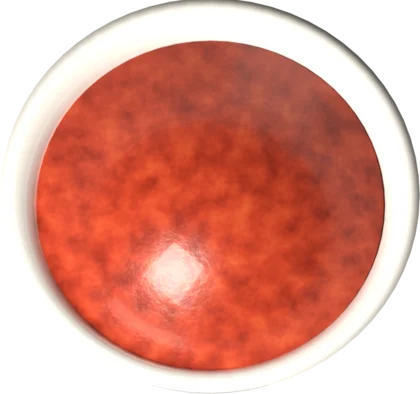
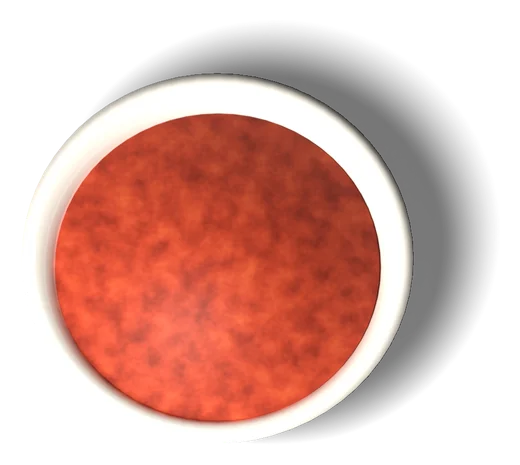
Hero: closed box stack behind today's ticket, copy at the pizza's optical centre
- Two closed Pizza Max boxes (new closed-stack scene in blender/box_scene.py,
  printed lid facing up) sit behind today's ticket, which lies across their
  front edge; shown on the three-column layout only.
- The copy block sits a little above the pizza's centre so the air above the
  headline and under the button match; the lead stays inside its column and
  no longer runs onto the crust at 1260-1330px.
- Ingredient props re-rendered with real contact shadows (pizza_scene.py --props,
  finished by box_finish.py); the kit's counter uses them without a CSS shadow.
- DESIGN.md records the hero layout and the box renders.

diff --git a/css/style.css b/css/style.css
@@ -235,11 +235,11 @@ a:hover .i-arrow, button:hover .i-arrow { transform: translateX(3px); }
   position: relative; width: min(1320px, 100% - 64px); margin-inline: auto; display: grid;
   grid-template-columns: minmax(0, .78fr) minmax(0, 1.25fr) minmax(340px, .75fr); grid-template-areas: "copy pizza ticket"; align-items: center;
 }
-.hero-copy { grid-area: copy; position: relative; z-index: 3; align-self: start; padding-top: 44px; }
+.hero-copy { grid-area: copy; position: relative; z-index: 3; align-self: center; margin-bottom: clamp(72px, 7.5vw, 120px); }   /* a little above centre: the headline clears the pizza's widest part, the air above and below reads even */
 /* the headline runs on over the board's empty corner; it lets drags through to the pizza */
 .hero-title { width: 122%; margin: 0; font-weight: 800; font-size: clamp(2.8rem, 5.1vw, 4.75rem); line-height: .98; letter-spacing: -.035em; pointer-events: none; }
 .hero-title em { font-style: normal; color: var(--green-dk); }
-.hero-lead { margin: 22px 0 0; font-size: var(--fs-lg); color: var(--text); max-width: 30ch; }
+.hero-lead { margin: 22px 0 0; font-size: var(--fs-lg); color: var(--text); max-width: min(30ch, 100% - 6rem); text-wrap: pretty; }   /* the headline leans into the board, the lead stays clear of it */
 .hero-cta { display: flex; flex-wrap: wrap; gap: 12px; margin-top: 26px; }
 .hero-visual { grid-area: pizza; position: relative; margin-left: -56px; }   /* the board slides under the end of the headline */
 /* today's oven, printed on the shop's thermal order ticket (the brand kit's ticket): torn top and bottom */
@@ -289,6 +289,9 @@ a:hover .i-arrow, button:hover .i-arrow { transform: translateX(3px); }
 }
 @media (hover: hover) { .hand-note:hover { transform: rotate(3deg) scale(1.05); } }
 .hand-note svg { width: 70px; margin-top: 16px; scale: -1 1; rotate: -28deg; }
+/* two closed boxes wait on the counter behind today's ticket, which lies across their front edge: the shop's
+   printed lid in the shop's own render. Decoration, never a click; it leaves with the three-column layout */
+.today-boxes { position: absolute; z-index: -2; left: 6%; bottom: calc(100% - 50px); width: clamp(250px, 24vw, 356px); height: auto; rotate: .7deg; pointer-events: none; user-select: none; }
 
 /* ---------- deals ---------- */
 .aktion { padding: 72px 0 80px; background: var(--surface); border-top: 1px solid var(--line); }
@@ -706,10 +709,11 @@ a:hover .i-arrow, button:hover .i-arrow { transform: translateX(3px); }
 }
 /* under 1260px the headline runs across the top, then the pizza with today's ticket lying beside it */
 @media (max-width: 1259px) {
+  .today-boxes { display: none; }
   .hero-stage { width: min(1180px, 100% - 40px); grid-template-columns: minmax(0, 1.2fr) minmax(0, .8fr); grid-template-areas: "copy copy" "pizza ticket"; row-gap: 4px; }
-  .hero-copy { display: grid; grid-template-columns: minmax(0, 1.3fr) minmax(0, .7fr); grid-template-areas: "title lead" "title cta"; align-items: end; column-gap: 40px; padding-top: 0; }
+  .hero-copy { display: grid; grid-template-columns: minmax(0, 1.3fr) minmax(0, .7fr); grid-template-areas: "title lead" "title cta"; align-items: end; column-gap: 40px; margin-bottom: 0; }
   .hero-title { grid-area: title; width: auto; }
-  .hero-lead { grid-area: lead; margin: 0; }
+  .hero-lead { grid-area: lead; margin: 0; max-width: 30ch; }
   .hero-cta { grid-area: cta; margin: 16px 0 4px; }
   .hero-visual { justify-self: center; width: 100%; max-width: 580px; margin-left: 0; }
   .today { align-self: center; margin: 0 0 0 -28px; }

diff --git a/brand/index.html b/brand/index.html
@@ -65,8 +65,8 @@
         <p>Laid out on the counter: logo, print, packaging, signs, team wear and screens. Print materials open at true size, screens at native pixels.</p>
         <p class="slip-how">Click any object for its size, paper and files.</p>
       </div>
-      <img class="prop prop-basil" src="../assets/props/basil.webp" alt="" width="254" height="420">
-      <img class="prop prop-tomato" src="../assets/props/tomato.webp" alt="" width="420" height="415">
+      <img class="prop prop-basil" src="../assets/props/basil.webp" alt="" width="348" height="520">
+      <img class="prop prop-tomato" src="../assets/props/tomato.webp" alt="" width="520" height="477">
       <img class="prop prop-olives" src="../assets/props/olives.webp" alt="" width="420" height="312">
       <div class="spot" data-place="box-open" data-r="-3" style="--x:39;--y:2;--sw:20"></div>
       <div class="spot" data-place="flyer-front" data-r="4" style="--x:61;--y:5;--sw:15.5"></div>

diff --git a/brand/kit.css b/brand/kit.css
@@ -102,8 +102,9 @@ button { font: inherit; color: inherit; }
 .spot { position: absolute; left: calc(var(--x) * 1%); top: calc(var(--y) * 1%); width: calc(var(--sw) * 1%); z-index: 2; }
 .spot .obj { width: 100%; }
 .prop { position: absolute; z-index: 1; height: auto; pointer-events: none; filter: drop-shadow(0 10px 10px rgba(40, 25, 10, .22)); }
-.prop-basil { width: 9%; left: 31%; top: 30%; transform: rotate(28deg); }
-.prop-tomato { width: 5.5%; left: 61%; top: 84%; }
+.prop-basil, .prop-tomato { filter: none; }   /* these two renders carry their own shadow on the table */
+.prop-basil { width: 12%; left: 30%; top: 28%; transform: rotate(28deg); }
+.prop-tomato { width: 8.4%; left: 60%; top: 82%; }
 .prop-olives { width: 8%; left: 90%; top: 66%; transform: rotate(-12deg); }
 /* a strip of masking tape with a pencil note, beside the box */
 .note {

diff --git a/index.html b/index.html
@@ -129,6 +129,7 @@
 
       <!-- today's oven, printed on the shop's order ticket: open or not, how soon, and does it come to you -->
       <section class="today" aria-labelledby="today-title">
+        <img class="today-boxes" src="assets/boxes/stack-2-closed-640.webp" alt="" width="640" height="475" decoding="async">
         <h2 class="today-head" id="today-title"><span>Today's oven</span> <span class="num" id="todayDate"></span></h2>
         <p class="today-open" id="todayOpen"><i aria-hidden="true"></i><span>Opening hours below</span></p>
         <ul class="today-rows">

diff --git a/blender/box_finish.py b/blender/box_finish.py
@@ -1,30 +1,35 @@
-"""Pizza Max - finish the box renders: assets/boxes/<id>.png (from box_scene.py) -> <id>.webp, then the png goes.
+"""Pizza Max - finish the renders that stand on the table (they cast their shadow on a shadow catcher).
 
-  python blender/box_finish.py
+  python blender/box_finish.py                  # assets/boxes/stack-*.png from box_scene.py -> .webp, the png goes
+  python blender/box_finish.py props <folder>   # <folder>/props/*.png from pizza_scene.py --props -> assets/props/*.webp
 
 The shadow catcher also records a faint grey over the whole table, which shows as a hard-edged rectangle on light
 grounds. The shadow is kept where it is real (contact and cast shadow), the faint wash is removed, and what is left
-fades out before the frame edge. Then the picture is trimmed to the box and its shadow, with a small margin.
+fades out before the frame edge. Then the picture is trimmed to the object and its shadow, with a small margin.
 """
-import glob, os, subprocess
+import glob, os, subprocess, sys
 import numpy as np
 from PIL import Image
 
 ROOT = os.path.dirname(os.path.dirname(os.path.abspath(__file__)))
-DIR = os.path.join(ROOT, 'assets', 'boxes')
 TOOL = os.path.expanduser(os.path.join('~', '.claude', 'skills', 'impeccable', 'scripts', 'impeccable.cmd'))
-ORIGIN = ("Origin: rendered in Blender 5.2 (Cycles) by blender/box_scene.py, finished by blender/box_finish.py: Pizza Max "
-          "boxes stacked, printed with the kit's own artwork (brand/export/box-lid.png, box-side.png) on the kit's kraft, "
-          "the top one open on the shop's own pizza render. No generated or stock imagery.")
+ORIGIN = {
+    'boxes': ("Origin: rendered in Blender 5.2 (Cycles) by blender/box_scene.py, finished by blender/box_finish.py: Pizza Max "
+              "boxes stacked, printed with the kit's own artwork (brand/export/box-lid.png, box-side.png) on the kit's kraft, "
+              "the top one open on the shop's own pizza render. No generated or stock imagery."),
+    'props': ("Origin: rendered in Blender 5.2 (Cycles) by blender/pizza_scene.py --props, finished by blender/box_finish.py: "
+              "loose ingredients modelled for the hero (basil, cherry tomato, chilli, sauce bowl), lit with the pizza rig and "
+              "lying on the table with their own shadow. No generated or stock imagery."),
+}
 
 
-def finish(src):
+def finish(src, out, origin, cap=None, shade=1.0):
     a = np.array(Image.open(src).convert('RGBA')).astype(np.float32)
     rgb, al = a[..., :3], a[..., 3]
-    shadow = rgb.max(axis=2) < 10                      # the catcher writes black with alpha; the boxes are never this dark
+    shadow = rgb.max(axis=2) < 10                      # the catcher writes black with alpha; the objects are never this dark
     h, w = al.shape
     # remove the faint wash, keep the real shadow
-    sa = np.clip((al - 14) / (255 - 14), 0, 1) * 255
+    sa = np.clip((al - 14) / (255 - 14), 0, 1) * 255 * shade
     # and let it fade out before the frame edge
     y = np.arange(h)[:, None] / h
     x = np.arange(w)[None, :] / w
@@ -37,14 +42,22 @@ def finish(src):
     m = int(.03 * max(h, w))
     box = (max(xs.min() - m, 0), max(ys.min() - m, 0), min(xs.max() + m + 1, w), min(ys.max() + m + 1, h))
     img = Image.fromarray(np.clip(a, 0, 255).astype(np.uint8)).crop(box)
-    out = src[:-4] + '.webp'
+    if cap and max(img.size) > cap:
+        img.thumbnail((cap, cap), Image.LANCZOS)
     img.save(out, 'WEBP', quality=86, alpha_quality=95, method=6)
     if os.path.isfile(TOOL):
-        subprocess.run(['cmd', '/c', TOOL, 'embed-prompt', out, '--prompt', ORIGIN], stdout=subprocess.DEVNULL, stderr=subprocess.DEVNULL, timeout=60)
-    os.remove(src)
+        subprocess.run(['cmd', '/c', TOOL, 'embed-prompt', out, '--prompt', origin], stdout=subprocess.DEVNULL, stderr=subprocess.DEVNULL, timeout=60)
     print(os.path.basename(out), img.size)
 
 
 if __name__ == '__main__':
-    for p in sorted(glob.glob(os.path.join(DIR, 'stack-*.png'))):
-        finish(p)
+    if len(sys.argv) > 2 and sys.argv[1] == 'props':
+        for p in sorted(glob.glob(os.path.join(sys.argv[2], 'props', '*.png'))):
+            name = os.path.splitext(os.path.basename(p))[0]
+            if name == 'olives':
+                continue                               # near-black skins would read as shadow here; not used on the site
+            finish(p, os.path.join(ROOT, 'assets', 'props', name + '.webp'), ORIGIN['props'], cap=520, shade=.6)   # small things: a lighter shadow
+    else:
+        for p in sorted(glob.glob(os.path.join(ROOT, 'assets', 'boxes', 'stack-*.png'))):
+            finish(p, p[:-4] + '.webp', ORIGIN['boxes'])
+            os.remove(p)

diff --git a/blender/box_scene.py b/blender/box_scene.py
@@ -150,29 +150,32 @@ def place(objs, loc, rot_z):
 
 
 def scene(name, pizza, n):
-    reset(1600, 1600 if n < 3 else 1700)
+    """n boxes stacked; the top one open on the pizza, or all closed (pizza None) with the printed lid on top"""
+    closed = pizza is None
+    reset(1600, 1300 if closed else 1600 if n < 3 else 1700)
     lid = img_mat('lid', os.path.join(ROOT, 'brand', 'export', 'box-lid.png'))
     side = img_mat('side', os.path.join(ROOT, 'brand', 'export', 'box-side.png'))
     kraft = img_mat('kraft', os.path.join(ROOT, 'assets', 'tex', 'kraft.webp'), repeat=2)
-    pz = img_mat('pizza', os.path.join(ROOT, 'assets', 'pizza', f'{pizza}-top.webp'), rough=.5)
+    pz = None if closed else img_mat('pizza', os.path.join(ROOT, 'assets', 'pizza', f'{pizza}-top.webp'), rough=.5)
     mats = [lid, side, kraft]
     turns = [.06, -.05, .03]
     shift = [(0, 0), (.06, -.04), (-.05, .05)]
-    for k in range(n - 1):          # closed boxes underneath
+    for k in range(n if closed else n - 1):          # closed boxes underneath (all of them, closed)
         ob = slab(f'box{k}', mats)
         before = set(bpy.data.objects)
         place([ob], (shift[k][0], shift[k][1], k * H / U), turns[k])
-    before = set(bpy.data.objects)
-    open_box('top', mats, pz)
-    new = [o for o in bpy.data.objects if o not in before and o.type == 'MESH']
-    place(new, (0, 0, (n - 1) * H / U), turns[(n - 1) % 3] * .5)
+    if not closed:
+        before = set(bpy.data.objects)
+        open_box('top', mats, pz)
+        new = [o for o in bpy.data.objects if o not in before and o.type == 'MESH']
+        place(new, (0, 0, (n - 1) * H / U), turns[(n - 1) % 3] * .5)
     lights()
     # three-quarter view from the front, the open box towards us
     h = n * H / U
     # framed loose so the open lid never touches the frame; blender/box_finish.py trims to the box and its shadow
-    tgt = Vector((.05, .55, h * .5 + .95))
+    tgt = Vector((0, .1, h * .5)) if closed else Vector((.05, .55, h * .5 + .95))
     cam = bpy.data.cameras.new('cam'); cam.lens = 62
-    co = link(bpy.data.objects.new('cam', cam)); co.location = tgt + Vector((-3.6, -8.4, 5.6)) * (1.3 + .07 * (n - 1))
+    co = link(bpy.data.objects.new('cam', cam)); co.location = tgt + Vector((-3.6, -8.4, 5.6)) * (1.15 if closed else 1.3 + .07 * (n - 1))
     tt = link(bpy.data.objects.new('t', None)); tt.location = tgt
     c = co.constraints.new('TRACK_TO'); c.target = tt; c.track_axis = 'TRACK_NEGATIVE_Z'; c.up_axis = 'UP_Y'
     bpy.context.scene.camera = co
@@ -181,7 +184,7 @@ def scene(name, pizza, n):
     print('RENDERED', name)
 
 
-SCENES = {'stack-1': ('salami', 1), 'stack-2': ('marg', 2), 'stack-3': ('supreme', 3)}
+SCENES = {'stack-1': ('salami', 1), 'stack-2': ('marg', 2), 'stack-3': ('supreme', 3), 'stack-2-closed': (None, 2)}
 if __name__ == '__main__':
     ids = [i for i in args.only.split(',') if i] or list(SCENES)
     for i in ids:

diff --git a/blender/pizza_scene.py b/blender/pizza_scene.py
@@ -649,12 +649,16 @@ def textures():
         bpy.data.objects.remove(ob)
 
 def props():
-    """loose ingredients for the hero, rendered with the pizza light rig"""
+    """loose ingredients for the hero, rendered with the pizza light rig: each lies on the table and casts its shadow
+    there (blender/box_finish.py props cleans the catcher's faint wash and trims them)"""
     reset(); M = mats()
-    build_lights_and_floor()
-    bpy.data.objects['floor'].hide_render = True
+    floor = build_lights_and_floor()
+    for ln in ('key', 'rim'):
+        bpy.data.lights[ln].shape = 'DISK'          # round highlights on the glossy skins, never a square window
     def shoot(name, ob_list, ortho):
-        cam = camera('cam_' + name, (0, -3.2, 9), (0, 0, 0), ortho=ortho)
+        bpy.context.view_layer.update()
+        floor.location.z = min((o.matrix_world @ Vector(c)).z for o in ob_list for c in o.bound_box) + .002
+        cam = camera('cam_' + name, (0, -3.2, 9), (0, 0, 0), ortho=ortho * 1.6)   # room for the cast shadow
         render(os.path.join(OUT, 'props', f'{name}.png'), cam)
         for ob in ob_list: bpy.data.objects.remove(ob)
         for o in [o for o in bpy.data.objects if o.name.startswith('cam_')]: bpy.data.objects.remove(o)
@@ -701,7 +705,10 @@ def props():
     bmesh.ops.spin(bm, geom=bm.verts[:] + bm.edges[:], cent=(0, 0, 0), axis=(0, 0, 1), angle=math.tau, steps=64, use_duplicate=False)
     bmesh.ops.remove_doubles(bm, verts=bm.verts[:], dist=.0005)
     bowl = mesh_obj('bowl', bm, M['ceramic'])
-    sauce = cylinder('dip', .63, .04, .3, M['sauce'], segs=64)
+    dip = M['sauce'].copy()                          # in the pot the sauce lies flat and matt, not a glossy dome
+    pb = next(n for n in dip.node_tree.nodes if n.type == 'BSDF_PRINCIPLED')
+    pb.inputs['Roughness'].default_value = .62; pb.inputs['Coat Weight'].default_value = 0
+    sauce = cylinder('dip', .63, .04, .3, dip, segs=64)
     shoot('sauce', [bowl, sauce], 1.7)
 
     # olives

diff --git a/DESIGN.md b/DESIGN.md
@@ -358,7 +358,7 @@ The logo lettering (Plus Jakarta Sans italic 800, "MAX" at -0.03em) is artwork, 
 
 The website is a stack of full-bleed bands on the planks, inside a centred container of min(1180px, 100% − 40px) (100% − 32px under 560px). Bands alternate by job: planks for the hero and the menu, white for deals and contact, deep basil for the delivery area, pine for the footer, flour white for the allergen key. Bands breathe 72 to 88px top and bottom (56 to 64px on phones). Every section head puts the title on the left with something useful beside it: a one-line Inter sentence ("Every deal comes in our boxes, and you choose the pizzas that go in them.") or the size ruler. The head sits 32px above the content.
 
-The hero is two columns, copy 0.92fr and the 3D pizza 1.08fr. The copy column holds the headline, a two-sentence lead, one large red button and the "Pizza Max today" ticket. The canvas may run 16% wider than its column so a pulled slice has room. Under 980px it stacks and centres, with the ticket kept left aligned. Deals are three equal kraft lids with 28px gaps. The menu's boxes view is four columns with 44px row and 24px column gaps; it drops to three under 1100px and two under 820px.
+The hero is the counter in three columns (copy .78fr, the 3D pizza 1.25fr, today's ticket .75fr, at least 340px). The copy block (headline, a one-sentence lead, one large red button) sits a little above the pizza's centre, so the air above the headline and under the button reads even and the headline clears the pizza's widest part; it leans into the board's empty corner, while the lead stays inside its column. Today's ticket lies at the foot of the right column, across the front edge of two closed Pizza Max boxes (the printed lid facing up), so the right column reads as one stack from box to ticket. The canvas may run 16% wider than its column so a pulled slice has room. Under 1260px the headline runs across the top with the pizza and the ticket beside it below, and the boxes leave; under 980px it stacks. Deals are three equal kraft lids with 28px gaps. The menu's boxes view is four columns with 44px row and 24px column gaps; it drops to three under 1100px and two under 820px.
 
 Responsive behaviour is a set of real re-layouts, not shrinking:
 - **980px:** the nav collapses behind a toggle, the logo tab shrinks to 132px, the hero stacks, deals go one column (three across between 700 and 980px so the chooser opens right under them), the size ruler moves under the title.
@@ -480,7 +480,7 @@ The kit's navigation and specs are thermal order tickets printed in black. The t
 The group in view is printed in reverse, white on an ink bar. Under 900px the ticket shrinks to a strip: the shop line, the total and a scrolling row of pill links. Opening an object lifts it off the table onto the spec stage, and a spec ticket slides in beside it. The spec ticket lists Size, Bleed, Stock, Colours and Group in small spaced caps over their values, then the notes, the file chips (PDF, PNG, print file) and the print button. Group headings on the table are Caveat on masking-tape strips.
 
 ### Pizza Imagery
-Only the shop's own Blender renders: `blender/pizza_scene.py` for the eight pizzas and five ingredient props, and `blender/wear_scene.py` for the kit's team wear and cup. The wear and cup are modelled cotton, twill and paper carrying the kit's own print files, lit with the same rig. All of them sit on a transparent ground; pizzas are served as 240, 480 and 760px WebP. **Top view** is the pizza's working view: in every menu box, in the deal boxes, on the size ruler, on the wheel, in the basket, the pizza sheet and printed menus. **Three-quarter view** is for a single pizza presented on its own in print and social (posters, flyers, posts, the menu screen). On the website the hero's pizza is the live 3D one. Pizzas are always whole, hot and on wood or in their box. Ingredient props decorate the kit's counter and social pieces and never lead; the website hero carries none. Real photos of the real pizzas may replace renders later; stock or generated food images never.
+Only the shop's own Blender renders: `blender/pizza_scene.py` for the eight pizzas and five ingredient props, `blender/box_scene.py` for stacks of the printed box (open on a pizza for the marketing pieces, closed for the hero), and `blender/wear_scene.py` for the kit's team wear and cup. Things that stand on the table cast their own shadow on a shadow catcher, cleaned and trimmed by `blender/box_finish.py`. The wear and cup are modelled cotton, twill and paper carrying the kit's own print files, lit with the same rig. All of them sit on a transparent ground; pizzas are served as 240, 480 and 760px WebP. **Top view** is the pizza's working view: in every menu box, in the deal boxes, on the size ruler, on the wheel, in the basket, the pizza sheet and printed menus. **Three-quarter view** is for a single pizza presented on its own in print and social (posters, flyers, posts, the menu screen). On the website the hero's pizza is the live 3D one. Pizzas are always whole, hot and on wood or in their box. Ingredient props decorate the kit's counter and social pieces and never lead; the website hero carries none. Real photos of the real pizzas may replace renders later; stock or generated food images never.
 
 ### Icons
 Line icons on a 24 grid with a 1.8 stroke, round ends and joins, no fill, in currentColor: pizza, box, delivery, pickup, hours, stone oven, veggie, spicy, fish, phone, address, website, email, message, social, card, cash, deal, check. Drawn in ink, pine or deep basil, or white on dark grounds; used at 16px or more, always beside a word.
